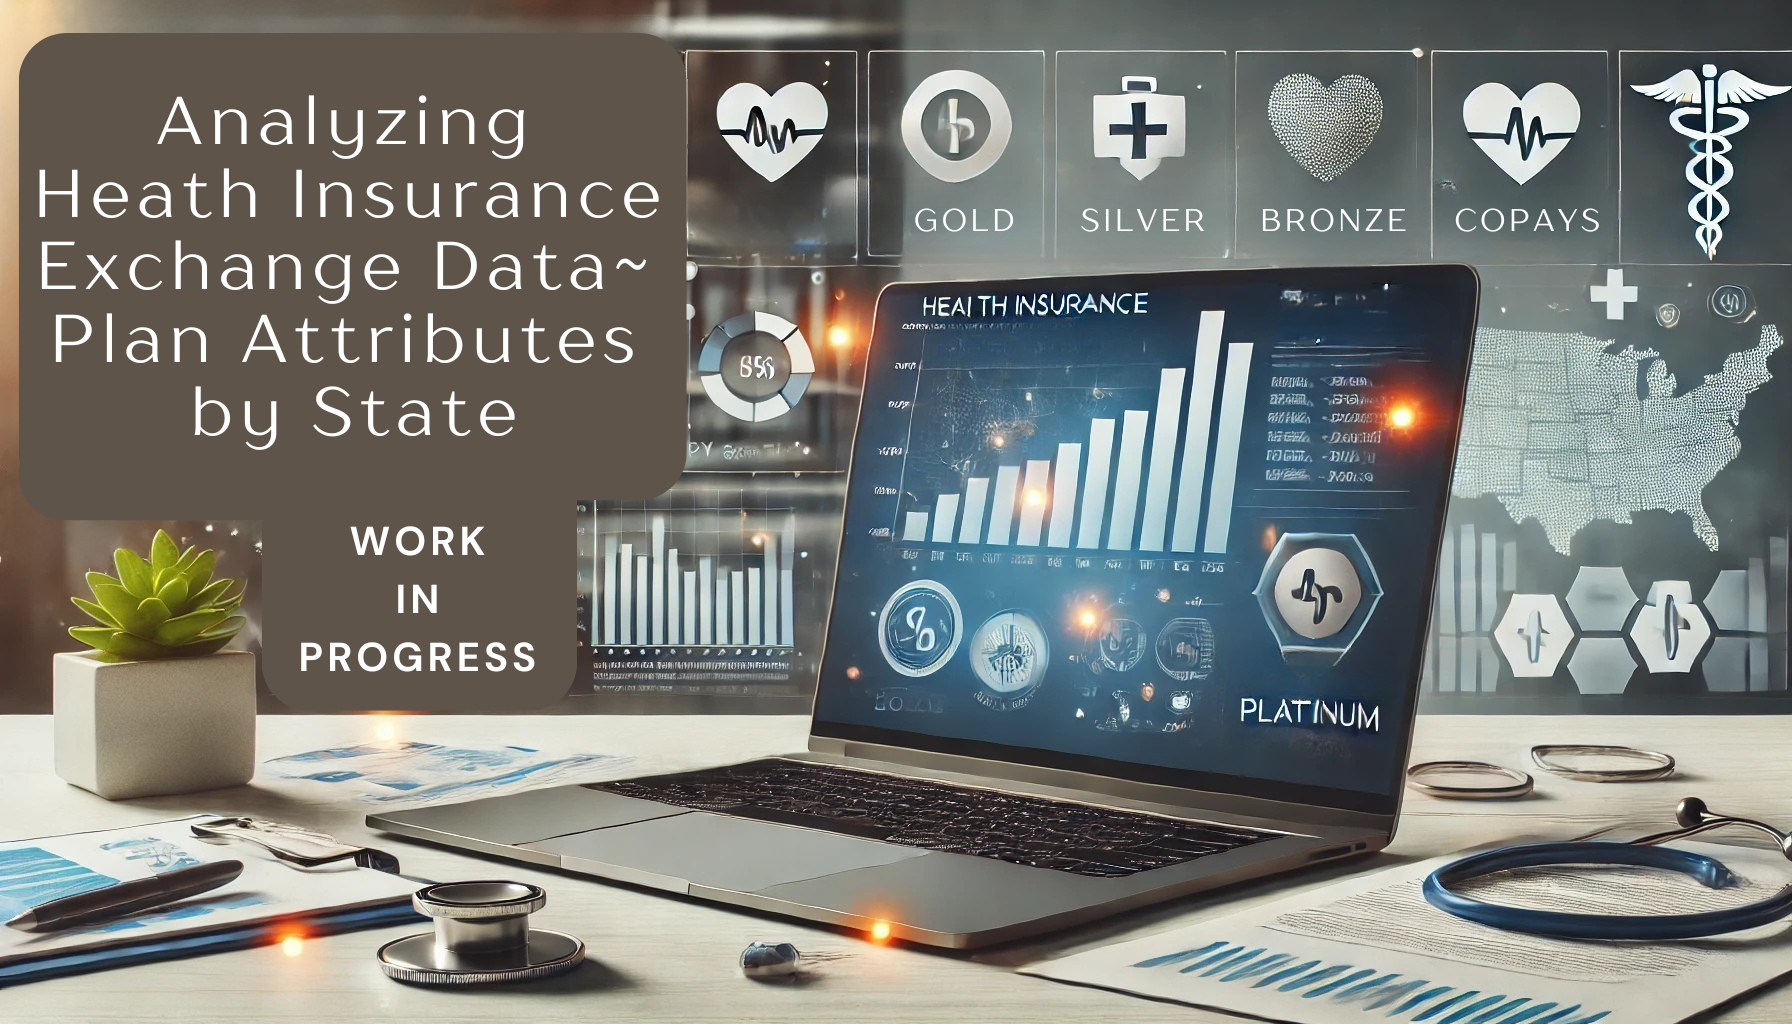
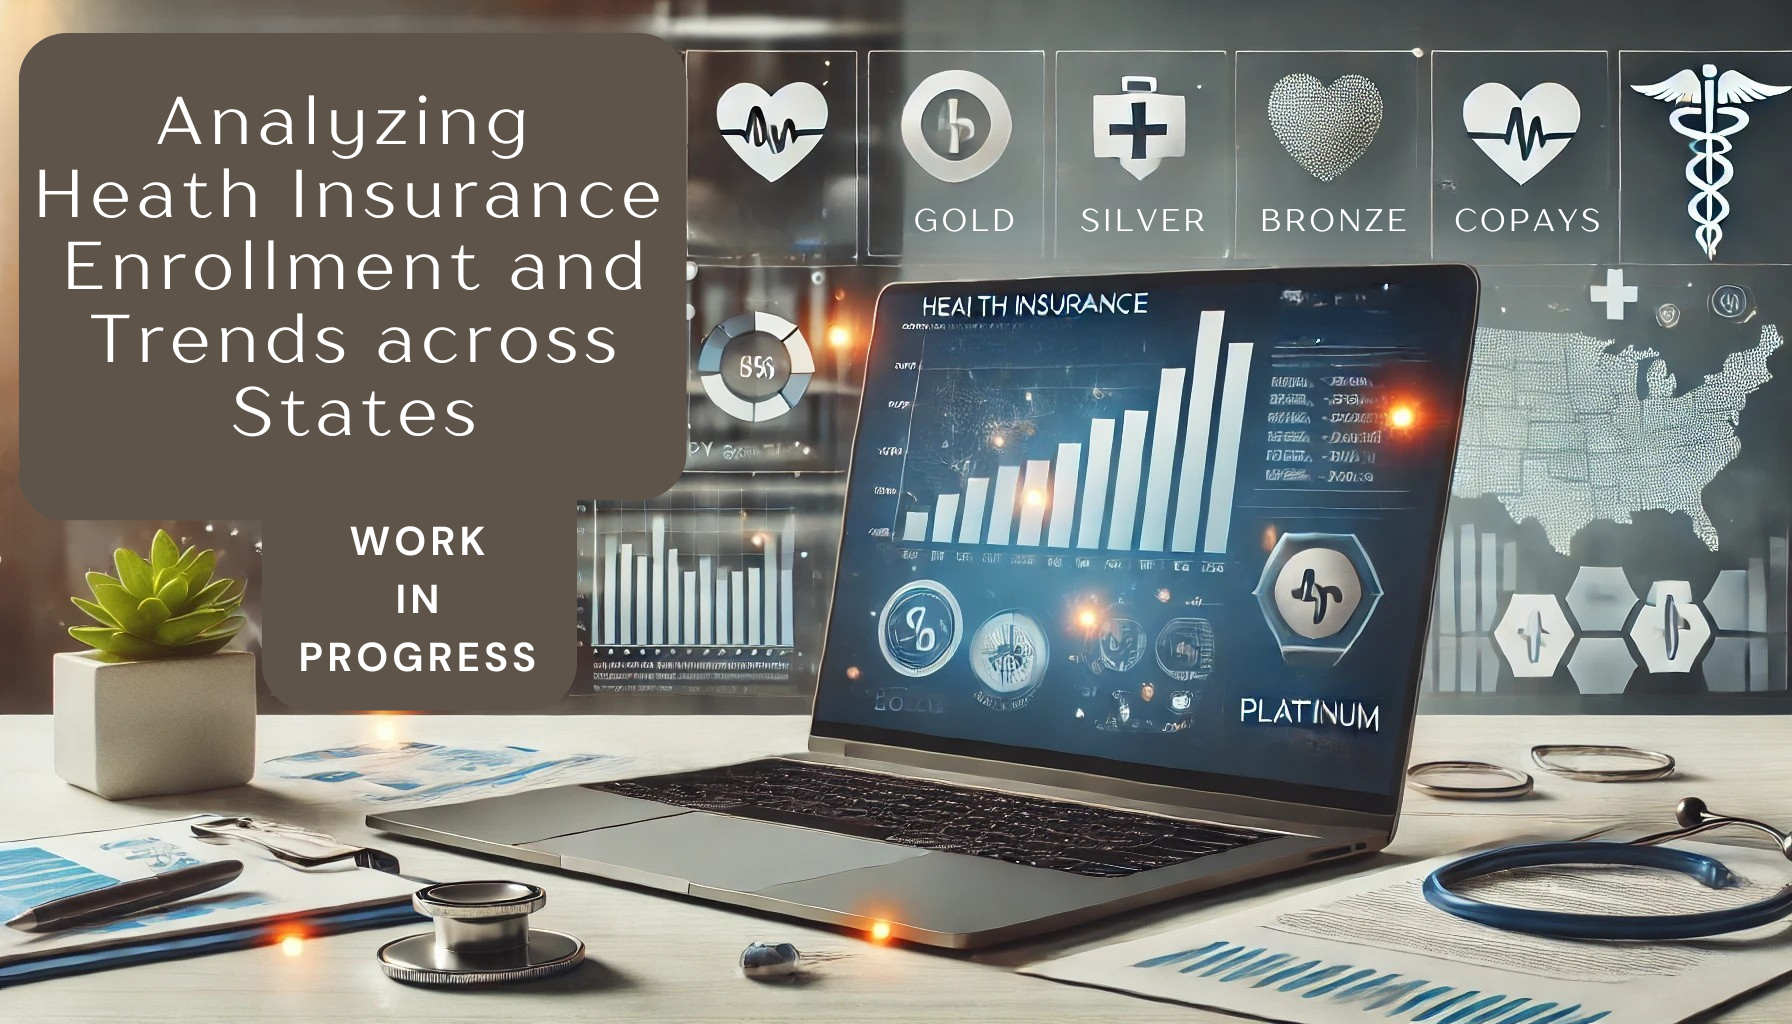
fix: update project description for Health Insurance Exchange analysis

Changed region(s): [[0.0, 0.2188, 0.375, 0.4375]]

diff --git a/index.html b/index.html
@@ -178,7 +178,8 @@
                                 <h3 class=" mb-3"><a href="-" target="_blank" > Work in Progress: SQL & Python Analysis of Health Insurance Exchange Data </a></h3>
                                     
                                 <div class="desc text-start">                                    
-                                   <p> Using data from the Centers for Medicare & Medicaid Services, I'm analyzing health insurance plan attributes across states on the Health Insurance Exchange. This project explores how deductibles and copays vary by metal tier (Bronze, Silver, Gold, Platinum) and examines cost differences between health plan types (HMO, PPO, EPO). The goal is to identify significant state-level trends in affordability and plan structure. Stay tuned for insights!</p>
+                                   <p> Using data from the Centers for Medicare & Medicaid Services, I'm annalyzing enrollment patterns across states, identifying trends in plan adoption, cost differences, and policy variations using Marketplace Open Enrollment 
+                                    Period Public Use and General Marketplace Public Use Files. Stay tuned for insights!</p>
                                  <!-- Button container -->
                                <!--  <div class="button-container">
                                     <a class="btn btn-cta-secondary" href="https://www.kaggle.com/code/amandaboyers/lego-exploration-color-changes-since-1949" target="_blank"><i class="fas fa-thumbs-up"></i> full analysis in Python here</a>
